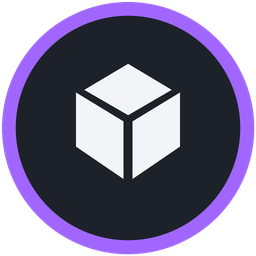
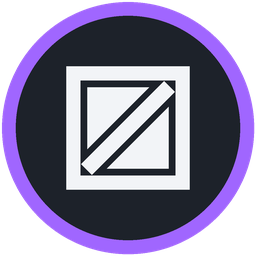
10/24/2026 - planet-stack - 12:30

Changed region(s): [[0.25, 0.25, 0.75, 0.75]]

diff --git a/art/3d/crew/roles/_src/roles_table.py b/art/3d/crew/roles/_src/roles_table.py
@@ -73,14 +73,12 @@ def _gear():       # 8-tooth cog with a round hole
         o.append((r * math.cos(a), r * math.sin(a))); i_.append((0.26 * math.cos(a), 0.26 * math.sin(a)))
     return [('ring', o, i_)]
 
-def _crate():      # isometric cargo cube: three faces with gaps
-    s = 0.62; c30, s30 = math.cos(math.pi / 6) * s, 0.5 * s; g = 0.06
-    top = [(0, g * 0.9), (c30 - g * 1.4, s30 + g * 0.1), (0, 2 * s30 - g * 0.6), (-c30 + g * 1.4, s30 + g * 0.1)]
-    top = [(x, y + 0.08) for x, y in top]
-    left = [(-c30, s30 - g * 0.4), (-g * 0.8, 0 - g * 0.2), (-g * 0.8, -2 * s30 + g * 0.2), (-c30, -s30 + g * 0.6)]
-    right = [(g * 0.8, 0 - g * 0.2), (c30, s30 - g * 0.4), (c30, -s30 + g * 0.6), (g * 0.8, -2 * s30 + g * 0.2)]
-    left = [(x, y + 0.08) for x, y in left]; right = [(x, y + 0.08) for x, y in right]
-    return [('fan', top), ('fan', left), ('fan', right)]
+def _crate():      # front-on cargo crate: square frame + diagonal brace + two plank panels split by gaps (no isometric/rhombus top)
+    sq = lambda x0, y0, x1, y1: [(x0, y0), (x1, y0), (x1, y1), (x0, y1)]
+    return [('ring', sq(-0.64, -0.64, 0.64, 0.64), sq(-0.49, -0.49, 0.49, 0.49)),
+            ('fan', _quad((-0.43, -0.43), (0.43, 0.43), 0.16)),
+            ('fan', [(-0.42, -0.22), (-0.42, 0.42), (0.22, 0.42)]),
+            ('fan', [(0.42, 0.22), (0.42, -0.42), (-0.22, -0.42)])]
 
 def _bolt():       # angular power bolt
     return [('fan', [(0.12, 0.8), (0.42, 0.8), (0.16, 0.12), (0.42, 0.12), (-0.12, -0.8), (0.02, -0.12), (-0.26, -0.12)])]
@@ -93,12 +91,14 @@ def _leaf():       # pointed leaf + stem
         t = j / 16; y = -0.55 + 1.3 * t; L.append((-0.42 * math.sin(math.pi * t) ** 0.8, y))
     return [('fan', [(x * 0.9 + 0.05, y) for x, y in L]), ('fan', _quad((0.0, -0.5), (-0.18, -0.8), 0.1))]
 
-def _spark():      # 4-point weld spark
-    P = []
-    for j in range(8):
-        a = math.pi / 2 + j * math.pi / 4; r = 0.8 if j % 2 == 0 else 0.2
-        P.append((r * math.cos(a), r * math.sin(a)))
-    return [('fan', P)]
+def _spark():      # weld torch: short angled nozzle at lower-left + five short spark lines spraying up-right from its tip (no star)
+    tip = (-0.16, -0.16)
+    out = [('fan', _quad((-0.72, -0.72), (-0.24, -0.24), 0.28)), ('fan', _quad((-0.26, -0.26), (-0.19, -0.19), 0.16))]
+    for ang, L in ((10, 0.52), (30, 0.74), (45, 0.86), (60, 0.74), (80, 0.52)):
+        a = math.radians(ang); r0 = 0.14
+        p0 = (tip[0] + r0 * math.cos(a), tip[1] + r0 * math.sin(a)); p1 = (tip[0] + L * math.cos(a), tip[1] + L * math.sin(a))
+        out.append(('fan', _quad(p0, p1, 0.085)))
+    return out
 
 def _nut():        # hex nut
     o = []; i_ = []
@@ -112,5 +112,5 @@ def _nut():        # hex nut
 
 BADGES = {'ore': _ore, 'wheel': _wheel, 'gear': _gear, 'crate': _crate, 'bolt': _bolt, 'leaf': _leaf, 'spark': _spark, 'nut': _nut}
 BADGE_DESC = {'ore': 'rough ore chunk (irregular lumpy rock, three chipped facets split by a vein-line gap, small chip)', 'wheel': 'three-spoke wheel', 'gear': 'eight-tooth gear with a round hole',
-              'crate': 'isometric cargo cube (three faces split by gaps)', 'bolt': 'angular power bolt', 'leaf': 'pointed leaf with a stem',
-              'spark': 'four-point weld spark', 'nut': 'hex nut'}
+              'crate': 'front-on cargo crate (square frame, diagonal brace, two plank panels)', 'bolt': 'angular power bolt', 'leaf': 'pointed leaf with a stem',
+              'spark': 'weld torch nozzle with five short spark lines spraying from its tip', 'nut': 'hex nut'}

diff --git a/art/3d/crew/roles/_src/role_kit.py b/art/3d/crew/roles/_src/role_kit.py
@@ -17,6 +17,7 @@ import roles_table as RT
 from mc_common import hexc, _obj, coll, M_glow
 
 TAU = 2 * math.pi
+STRONG = os.environ.get('ROLES_STRONG', '1') == '1'   # v3 phone-size read: chest plate + upper-arm plates in role colour, less dust/wear on the paint
 CUR = {}          # role being built
 GRIP = {}         # grip frame of the tool hand (root space): c (handle centre), ax (handle axis, thumb side), fa, npalm, rh
 TOOL_SIDE = -1    # -X = the crew member's RIGHT (faces -Y)
@@ -28,8 +29,12 @@ def role_mats(key):
     if key in S._M: return S._M[key]
     if key not in RT.ROLES: return _orig_mats(key)
     base = _orig_mats('cyan'); acc = RT.ROLES[key]['accent']
-    paint = S._shell_mat('C_Accent_' + key, acc, 0.24, 0.9, bump=0.2, micro=60.0, dust=0.6, scratch=0.7,
-                         dust_col='#8f8a82', scr_col='#c9ccd0', wear_col='#e8eaed', wear=0.8)
+    if STRONG:   # cleaner, saturated paint so the accent survives AgX + dust at 20 px
+        paint = S._shell_mat('C_Accent_' + key, acc, 0.3, 0.9, bump=0.2, micro=60.0, dust=0.22, scratch=0.35,
+                             dust_col='#8f8a82', scr_col='#c9ccd0', wear_col='#d8dadd', wear=0.25)
+    else:
+        paint = S._shell_mat('C_Accent_' + key, acc, 0.24, 0.9, bump=0.2, micro=60.0, dust=0.6, scratch=0.7,
+                             dust_col='#8f8a82', scr_col='#c9ccd0', wear_col='#e8eaed', wear=0.8)
     S._M[key] = dict(base, paint=paint, glow=base['cyan'])
     return S._M[key]
 S.mats = role_mats
@@ -315,8 +320,8 @@ def badge(K, M, key, center, normal, up, R=0.04, name='Badge'):
     sym = [(p[0],) + tuple([(u_ * R * 0.74, v_ * R * 0.74) for u_, v_ in loop] for loop in p[1:]) for p in RT.BADGES[key]()]
     kprism(K, name + 'Symbol', sym, 0.0075, M['shell'], F @ Matrix.Translation((0, 0, 0.0)), bevel=0.0008)
 
-SOLID_ACCENT = ('Pauldron', 'Backpack', 'BackpackTank', 'BackpackFin')
-ACCENT_TO_SHELL = ('PauldronLame', 'PauldronStripe', 'BackpackTankBand')
+SOLID_ACCENT = ('Pauldron', 'Backpack', 'BackpackTank', 'BackpackFin') + (('ChestPlate', 'BicepPlate') if STRONG else ())
+ACCENT_TO_SHELL = ('PauldronLame', 'PauldronStripe', 'BackpackTankBand') + (('ChestAccent',) if STRONG else ())
 
 def helmet_stripes(K, M, root):
     """twin role-colour stripes over the helmet crown, brow-top to the back of the neck (read from behind and above)."""

diff --git a/art/3d/crew/roles/_src/make_cards.py b/art/3d/crew/roles/_src/make_cards.py
@@ -79,6 +79,22 @@ def lineup(raw, layout, out):
         d.text((x - w / 2, y + 2), t, font=f, fill=(244, 246, 249, 255))
     im.convert('RGB').save(out, optimize=True); print('LINEUP', out, im.size)
 
+def game_view(d):
+    """4x nearest-neighbour upscales of the 375x667 in-game proofs + a side-by-side crop sheet (front | back) around the figures."""
+    crops = []
+    for v in ('front', 'back'):
+        im = Image.open(os.path.join(d, f'game_{v}_375x667.png')).convert('RGB')
+        im.resize((1500, 2668), Image.NEAREST).save(os.path.join(d, f'game_{v}_375x667_x4nn.png'), optimize=True)
+        L = json.load(open(os.path.join(d, f'game_{v}_layout.json')))['figures']
+        xs = [f['x'] for f in L]; fy = L[0]['feet_y']
+        box = (int(min(xs) - 30), int(fy - 50), int(max(xs) + 30), int(fy + 14))
+        crops.append(im.crop(box).resize(((box[2] - box[0]) * 8, (box[3] - box[1]) * 8), Image.NEAREST))
+    W = sum(c.width for c in crops) + 24; H = max(c.height for c in crops) + 60
+    sh = Image.new('RGB', (W, H), (20, 23, 28)); dr = ImageDraw.Draw(sh); x = 0
+    for v, c in zip(('FRONT (game camera, 1:1 px shown 8x)', 'BACK'), crops):
+        sh.paste(c, (x, 60)); dr.text((x + 10, 12), v, font=font('SemiBold', 32), fill=(220, 225, 232)); x += c.width + 24
+    sh.save(os.path.join(d, 'game_figures_crop_x8nn.png'), optimize=True); print('GAME', sh.size)
+
 if __name__ == '__main__':
     mode = sys.argv[1]
     if mode == 'cards':
@@ -86,6 +102,7 @@ if __name__ == '__main__':
         for i, k in enumerate([k for k in RT.ORDER if RT.ROLES[k]['tier'] == 1]):
             hp = os.path.join(hd, f'hero_{k}.png')
             if os.path.exists(hp): card(k, hp, os.path.join(od, f'card_{k}_750x1050.png'), i + 1)
+    elif mode == 'game': game_view(sys.argv[2])
     elif mode == 'lineup': lineup(sys.argv[2], sys.argv[3], sys.argv[4])
     elif mode == 'badges':
         od = sys.argv[2]; os.makedirs(od, exist_ok=True)

diff --git a/art/3d/crew/roles/ROLES.md b/art/3d/crew/roles/ROLES.md
@@ -6,7 +6,7 @@ sleek white shell, graphite + cyan base, panel lines, light dust/edge wear). A r
 
 | Kit piece | Where it goes |
 |---|---|
-| **Accent colour** | **solid** shoulder plates (pauldrons) + **solid** backpack shell and side tanks, twin helmet crown stripes (brow to nape, read from behind/above), suit accent stripes (shin/thigh/boot/back-of-glove), helmet badge ring, tool trim. Pauldron lames / tank bands flip to white on the coloured plates. |
+| **Accent colour** | **solid** chest plate, upper-arm (bicep) plates and shoulder plates (pauldrons) + **solid** backpack shell and side tanks (clean paint: light dust/wear so the colour stays saturated at phone size), twin helmet crown stripes (brow to nape, read from behind/above), suit accent stripes (shin/thigh/boot/back-of-glove), helmet badge ring, tool trim. Pauldron lames / tank bands / the chest accent flip to white on the coloured plates. |
 | **Hand tool / prop** | right hand, closed power-grip glove wrapped on a 0.0175 m handle |
 | **Helmet badge** | both helmet temples (raycast onto the shell), 0.046 m medallion: accent ring, graphite disc, white symbol |
 | *extras* (optional) | small role-specific add-ons (headset, radio, tool belt, accent gloves) |
@@ -21,14 +21,14 @@ Cyan stays the suit's shared glow / UI colour on every role; accents were picked
 | 1 | **Miner** | `#FFC21A` amber | Rock pick: long graphite haft, rubber grip, steel spike + chisel-adze head, accent collar | - | **Ore chunk**: irregular lumpy rock split into three chipped facets by a thin vein-line gap, plus a small chip (deliberately not gem/crystal-like: crystals are the paid currency) | Mines ore at the Mine. |
 | 2 | **Mine Driver** | `#2FD36B` green | Drive controller: compact handheld twin-grip remote, white face plate with small cyan screen, two thumb sticks, accent bumper + buttons, stub antenna | headset (accent ear cup + boom mic), accent gloves | **Wheel**: three-spoke wheel | Drives the mine truck. |
 | 3 | **Mechanic** | `#F0443A` red | Heavy wrench: open C-jaw top, closed ring end, accent inlay | tool belt (two hip pouches) | **Gear**: eight-tooth gear with a round hole | Upgrades and builds. |
-| 4 | **Cargo Manager** | `#A066FF` violet | Cargo tablet: cyan manifest screen, accent header bar | shoulder radio w/ whip antenna (left shoulder) | **Crate**: isometric cargo cube, three faces split by gaps | Runs cargo and radios the crew. |
+| 4 | **Cargo Manager** | `#A066FF` violet | Cargo tablet: cyan manifest screen, accent header bar | shoulder radio w/ whip antenna (left shoulder) | **Crate**: front-on square cargo crate: frame, diagonal brace, two plank panels (no isometric / rhombus top) | Runs cargo and radios the crew. |
 | 5 | Engineer *(tier 2, defined, tool not built)* | `#FF7A1F` orange | multimeter | - | Bolt (angular power bolt) | Keeps the base powered and running. |
 | 6 | Botanist *(tier 2)* | `#B6E62E` lime | plant sampler | - | Leaf (pointed, with stem) | Grows food in the greenhouse. |
-| 7 | Welder *(tier 2)* | `#FF4FB0` magenta | weld torch | - | Spark (four-point weld spark) | Welds and repairs hull plates. |
+| 7 | Welder *(tier 2)* | `#FF4FB0` magenta | weld torch | - | Torch spray: short angled torch nozzle with five short spark lines spraying from its tip (no star shape) | Welds and repairs hull plates. |
 | 8 | Machinist *(tier 2)* | `#4D6BFF` blue | caliper | - | Nut (hex nut) | Machines parts in the workshop. |
 
 Badges are plain geometric primitives drawn by us (`roles_table.BADGES`) - no agency, brand or game marks, no text.
-**No crystal / diamond / gem shapes anywhere in the crew kit** (crystals are the game's paid currency).
+**No crystal / diamond / gem shapes anywhere in the crew kit** (crystals are the game's paid currency). No rhombus / diamond faces and no 4-point stars either.
 
 ## Files
 
